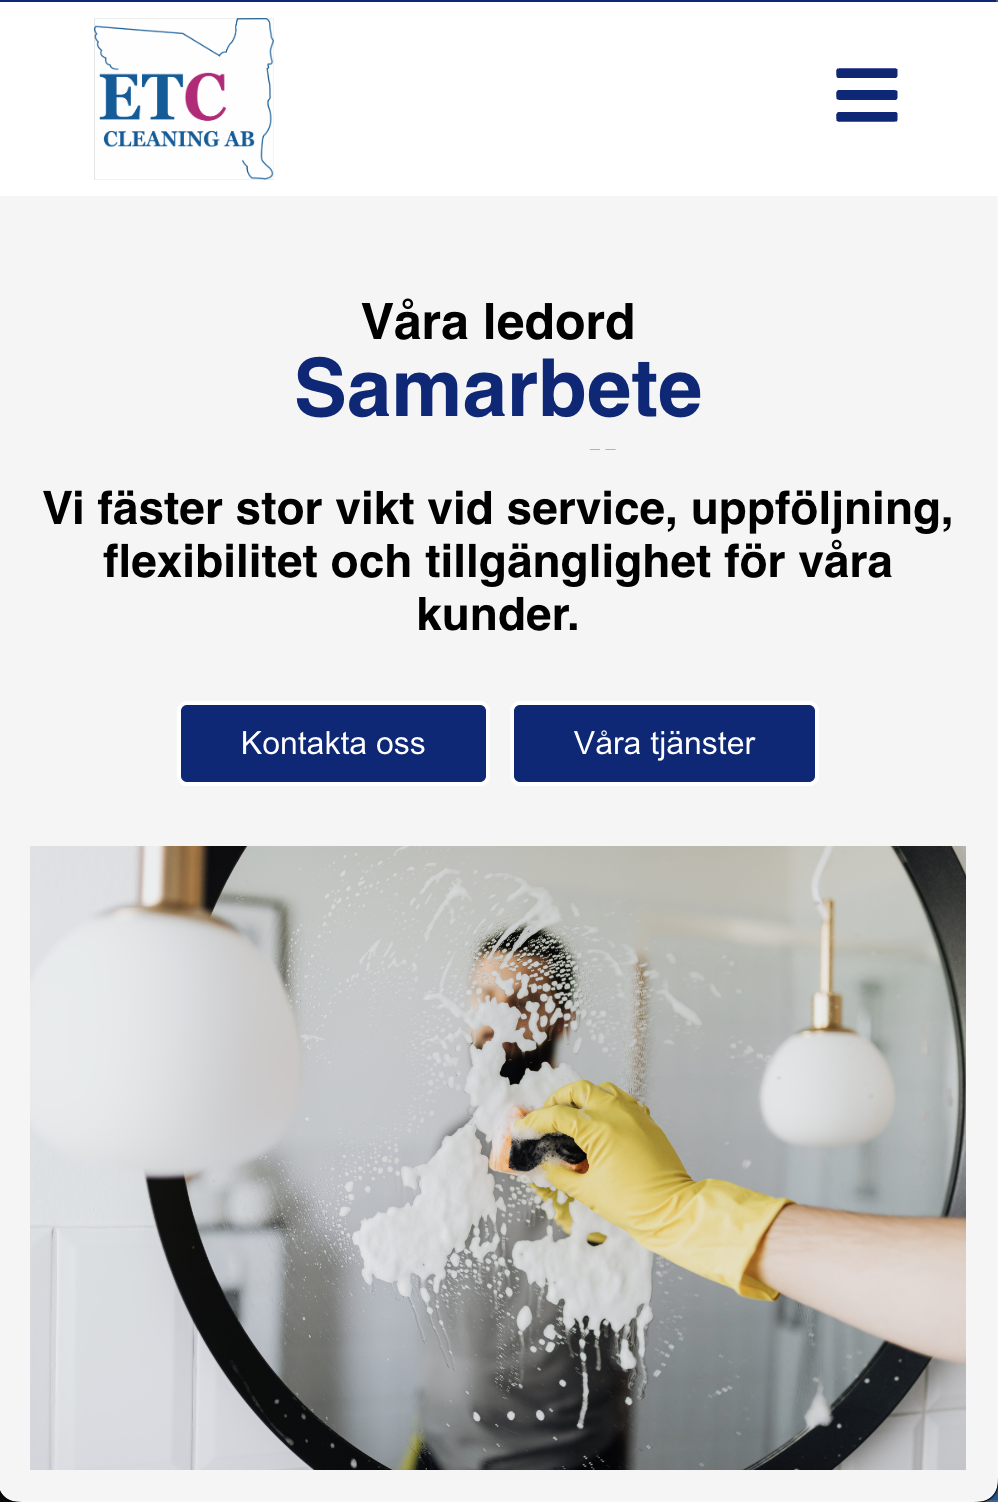
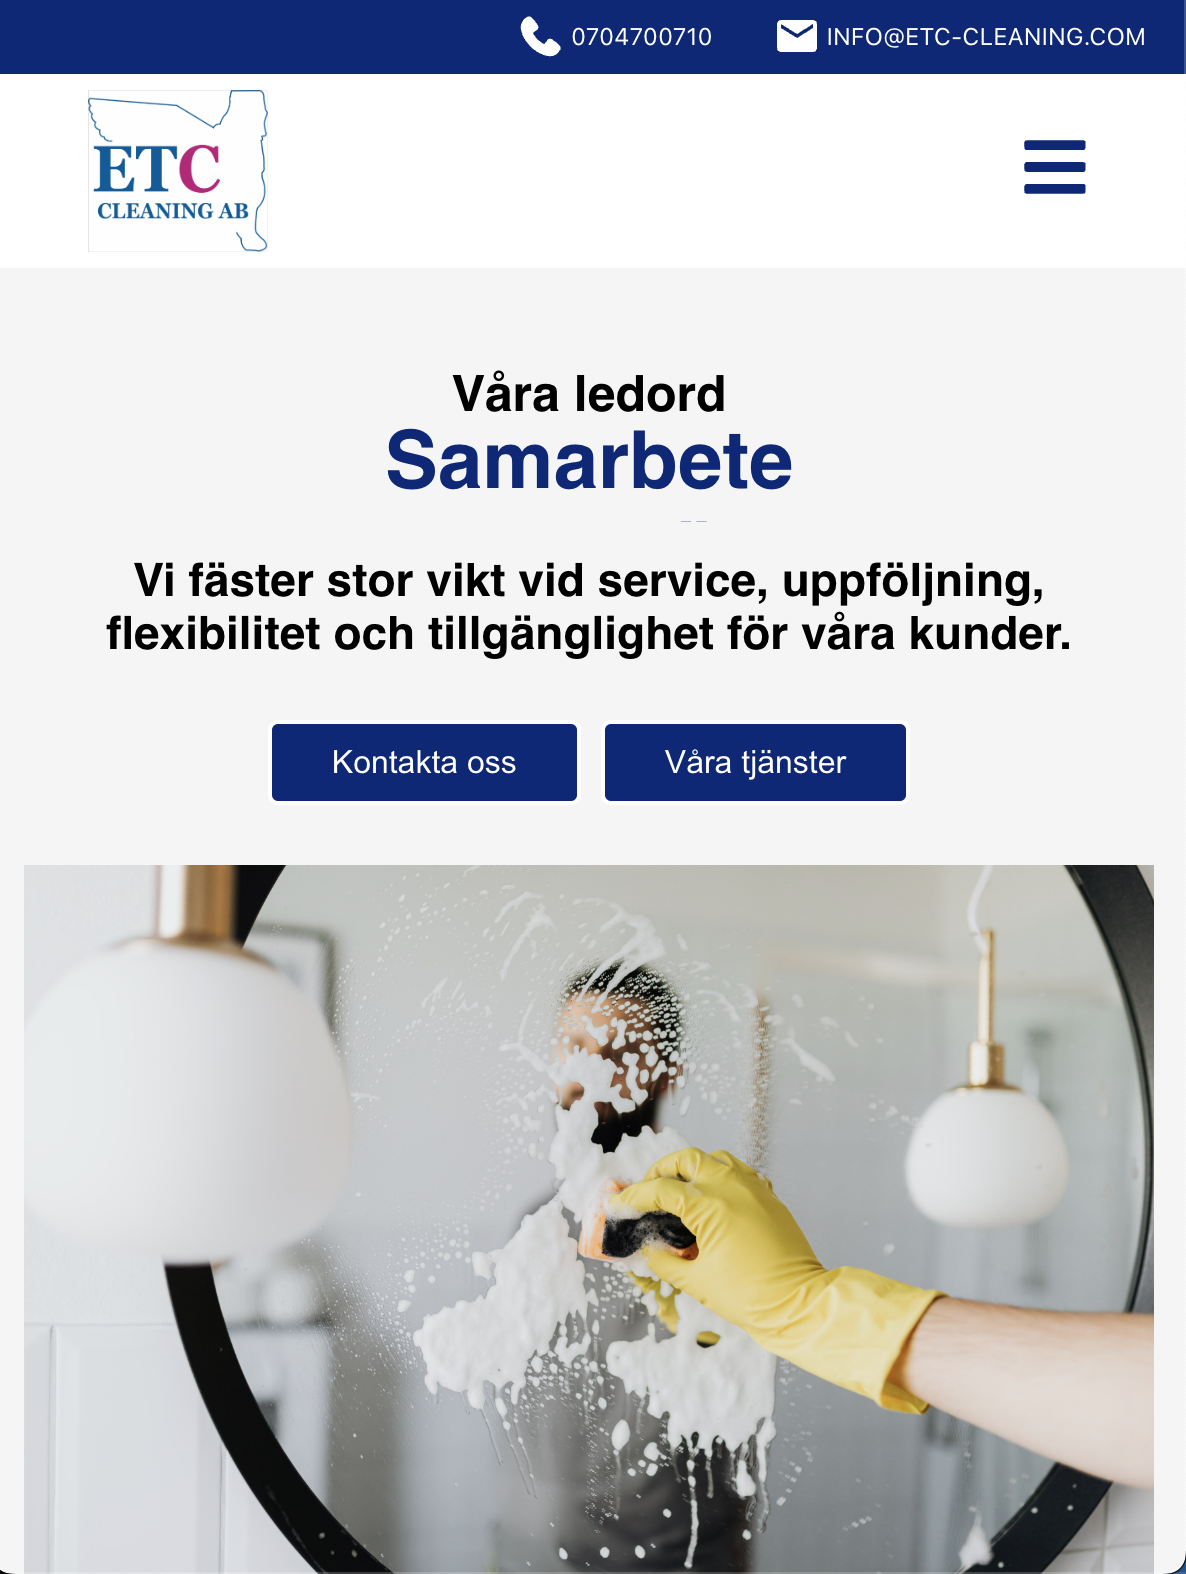
added different project to projects page

diff --git a/src/Pages/Projects/Projects.jsx b/src/Pages/Projects/Projects.jsx
@@ -1,8 +1,7 @@
 import { Project } from "../../Components/Project/Project";
 import wedding from "../../assets/images/weeding-app.png";
 import etc from "../../assets/images/etc.png";
-import cityGame from "../../assets/images/city-game.png";
-import ettc from "../../assets/images/ettc.png";
+import developer from "../../assets/images/developer-dashboard.png"
 import { $ProjectWrapper, $Content } from "./styles";
 
 function Projects() {
@@ -11,7 +10,7 @@ function Projects() {
             <h1>WORK</h1>
             <$Content>
                 <Project
-                    image={ettc}
+                    image={etc}
                     title="ETC Cleaning AB"
                     text="Developed Website for ETC Cleaning AB, a premier cleaning service provider. The platform effortlessly showcases their expertise, offering clients a user-friendly experience to discover and connect with exceptional cleaning solutions."
                     live="https://etc-cleaning.se/"
@@ -19,11 +18,11 @@ function Projects() {
                 />
                 <Project
                     reverse="reverse"
-                    image={cityGame}
-                    title="City Clash"
-                    text="City Clash is a fun and engaging spinoff of the classic KittenWar game, where users can vote for their favorite cities in head-to-head matches. City Clash is the perfect game to celebrate and showcase your favorite cities."
-                    live="https://city-game-usah.onrender.com"
-                    github="https://github.com/RHermez10/cities-clash/tree/main"
+                    image={developer}
+                    title="Developer Dashboard"
+                    text="Developer Dashboard is a productivity application built with Next.js, TypeScript, Tailwind CSS, and Zustand. It allows developers to manage projects, track job applications, and visualize skill progress while showcasing responsive design, state management, accessibility, and performance optimization."
+                    live="https://developer-app-alpha.vercel.app/"
+                    github="https://github.com/RHermez10/developer-app"
                 />
                 <Project
                     image={wedding}
